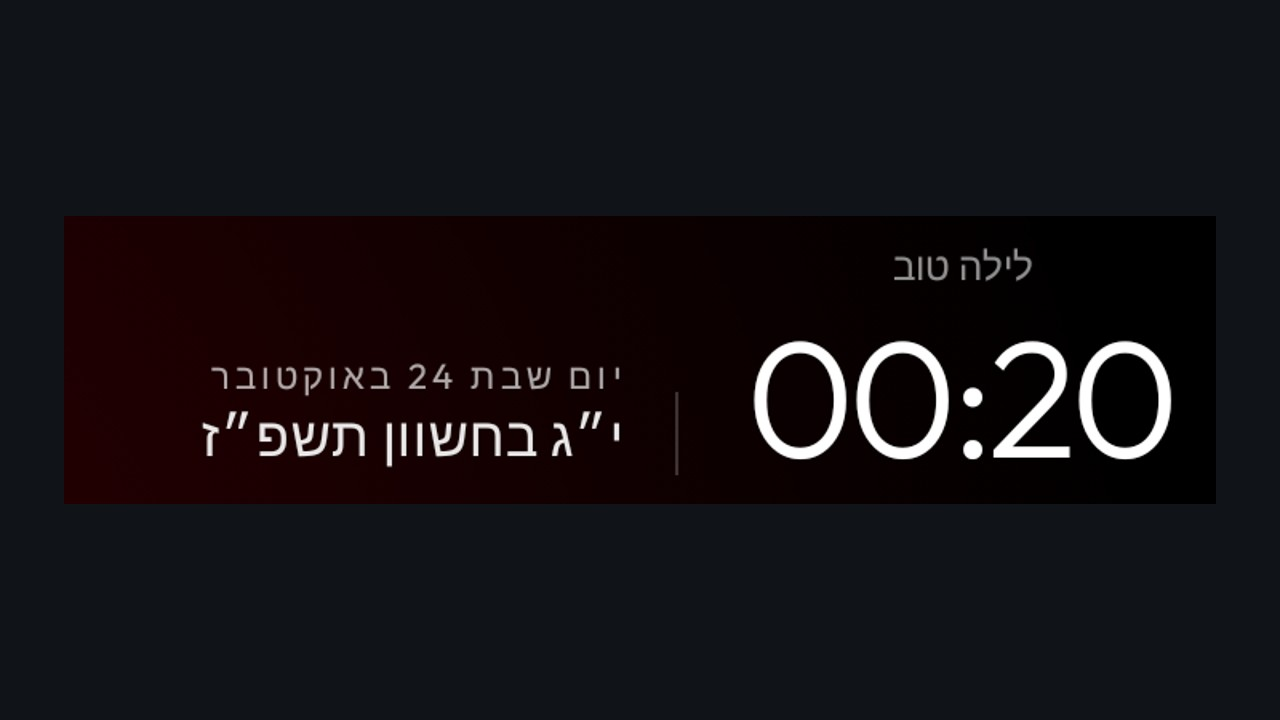
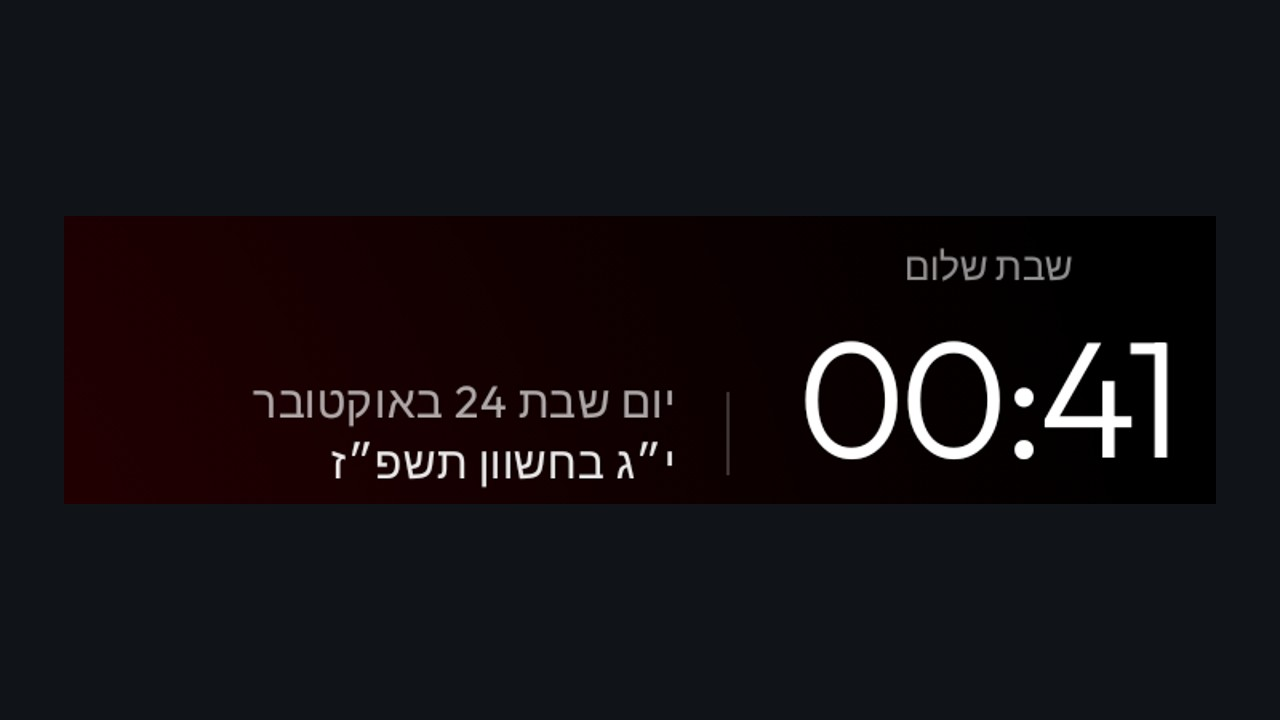
Launcher: match date styling and add Shabbat greeting precedence

Changed region(s): [[0.5625, 0.4583, 0.9375, 0.6417], [0.1562, 0.4889, 0.5312, 0.6722], [0.6875, 0.3361, 0.8438, 0.3972]]

diff --git a/launcher/app/src/test/java/com/gathin/tvhome/JewishDateTest.java b/launcher/app/src/test/java/com/gathin/tvhome/JewishDateTest.java
@@ -34,21 +34,21 @@ public class JewishDateTest {
         assertFalse(JewishDate.israel(new Locale("he", "IL"), "diaspora"));
     }
     @Test public void holidayRangesAndDiasporaExtraDays() {
-        assertEquals(R.string.jewish_rosh_hashanah, JewishDate.holiday(0, 1, 30, true));
+        assertEquals(JewishDate.NEW_YEAR, JewishDate.holiday(0, 1, 30, true));
         assertEquals(0, JewishDate.holiday(0, 3, 30, true));
-        assertEquals(R.string.jewish_yom_kippur, JewishDate.holiday(0, 10, 30, true));
-        assertEquals(R.string.jewish_happy_holiday, JewishDate.holiday(0, 21, 30, true));
-        assertEquals(R.string.jewish_happy_holiday, JewishDate.holiday(0, 22, 30, true));
-        assertEquals(R.string.jewish_happy_holiday, JewishDate.holiday(0, 22, 30, false));
-        assertEquals(R.string.jewish_happy_holiday, JewishDate.holiday(0, 23, 30, false));
+        assertEquals(JewishDate.KIPPUR, JewishDate.holiday(0, 10, 30, true));
+        assertEquals(JewishDate.HOLIDAY, JewishDate.holiday(0, 21, 30, true));
+        assertEquals(JewishDate.HOLIDAY, JewishDate.holiday(0, 22, 30, true));
+        assertEquals(JewishDate.HOLIDAY, JewishDate.holiday(0, 22, 30, false));
+        assertEquals(JewishDate.HOLIDAY, JewishDate.holiday(0, 23, 30, false));
         assertEquals(0, JewishDate.holiday(0, 23, 30, true));
-        assertEquals(R.string.jewish_happy_holiday, JewishDate.holiday(7, 22, 30, false));
+        assertEquals(JewishDate.HOLIDAY, JewishDate.holiday(7, 22, 30, false));
         assertEquals(0, JewishDate.holiday(7, 22, 30, true));
-        assertEquals(R.string.jewish_happy_holiday, JewishDate.holiday(9, 7, 30, false));
+        assertEquals(JewishDate.HOLIDAY, JewishDate.holiday(9, 7, 30, false));
         assertEquals(0, JewishDate.holiday(9, 7, 30, true));
         assertEquals(0, JewishDate.holiday(5, 14, 30, true)); // Adar I is not Purim.
-        assertEquals(R.string.jewish_purim, JewishDate.holiday(6, 14, 30, true));
-        assertEquals(R.string.jewish_purim, JewishDate.holiday(6, 15, 30, true));
+        assertEquals(JewishDate.PURIM, JewishDate.holiday(6, 14, 30, true));
+        assertEquals(JewishDate.PURIM, JewishDate.holiday(6, 15, 30, true));
     }
     @Test public void omitYearThousandsWithoutChangingDaysOrLeapMonths() {
         assertEquals("ה׳ בחשוון תשפ״ז", JewishDate.withoutMillennium("ה׳ בחשוון ה׳תשפ״ז"));
@@ -59,11 +59,25 @@ public class JewishDateTest {
         assertEquals("13 Heshvan 5787", JewishDate.withoutMillennium("13 Heshvan 5787"));
     }
 
+    @Test public void holidaysAndTheirEvesOverrideShabbat() {
+        LocalDate shabbat = LocalDate.of(2026, 10, 24);
+        assertEquals(JewishDate.SHABBAT, JewishDate.preferredGreeting(0, 0, shabbat));
+        assertEquals(JewishDate.NEW_YEAR,
+                JewishDate.preferredGreeting(JewishDate.NEW_YEAR, 0, shabbat));
+        assertEquals(JewishDate.HOLIDAY,
+                JewishDate.preferredGreeting(0, JewishDate.HOLIDAY, LocalDate.of(2025, 4, 12)));
+        assertEquals(JewishDate.HANUKKAH, JewishDate.preferredGreeting(
+                JewishDate.HANUKKAH, JewishDate.NEW_YEAR, shabbat));
+        assertEquals(0, JewishDate.preferredGreeting(0, 0, shabbat.plusDays(1)));
+        assertEquals(JewishDate.SHABBAT,
+                JewishDate.preferredGreeting(0, 0, LocalDate.of(1969, 12, 27)));
+    }
+
     @Test public void hanukkahHasEightDaysWithShortOrLongKislev() {
         for (int length : new int[]{29, 30}) {
             int count = 0;
             for (int month : new int[]{2, 3}) for (int d = 1; d <= (month == 2 ? length : 29); d++)
-                if (JewishDate.holiday(month, d, length, true) == R.string.jewish_hanukkah) count++;
+                if (JewishDate.holiday(month, d, length, true) == JewishDate.HANUKKAH) count++;
             assertEquals(8, count);
         }
     }

diff --git a/launcher/app/src/main/java/com/gathin/tvhome/JewishDate.java b/launcher/app/src/main/java/com/gathin/tvhome/JewishDate.java
@@ -11,6 +11,8 @@ import java.util.Locale;
 
 /** Optional civil display, computed offline; sunset is approximate, not a source of religious times. */
 final class JewishDate {
+    // One-based indices into jewish_greetings; zero keeps the ordinary greeting.
+    static final int NEW_YEAR = 1, KIPPUR = 2, HANUKKAH = 3, PURIM = 4, HOLIDAY = 5, SHABBAT = 6;
     final boolean showDate, greetings;
     private final double latitude, longitude;
     private final String region;
@@ -94,6 +96,20 @@ final class JewishDate {
     }
 
     int greeting(LocalDate day, Locale locale) {
+        int today = holidayOn(day, locale);
+        if (today != 0) return today;
+        return preferredGreeting(0, holidayOn(day.plusDays(1), locale), day);
+    }
+
+    static int preferredGreeting(int holiday, int eve, LocalDate day) {
+        if (holiday != 0) return holiday;
+        if (eve != 0) return eve;
+        // Epoch day 2 was Saturday; Java's signed remainder is -5 for pre-1970 Saturdays.
+        long weekday = day.toEpochDay() % 7;
+        return weekday == 2 || weekday == -5 ? SHABBAT : 0;
+    }
+
+    private int holidayOn(LocalDate day, Locale locale) {
         HebrewCalendar c = calendar(day);
         int month = c.get(HebrewCalendar.MONTH), date = c.get(HebrewCalendar.DAY_OF_MONTH);
         // Kislev may have 29 or 30 days; Hanukkah always lasts eight days.
@@ -105,17 +121,17 @@ final class JewishDate {
     /** ICU month numbers: Tishri=0, Kislev=2, Tevet=3, Adar/Adar II=6, Nisan=7, Sivan=9. */
     static int holiday(int month, int day, int kislevDays, boolean israel) {
         if (month == 0) {
-            if (day == 1 || day == 2) return R.string.jewish_rosh_hashanah;
-            if (day == 10) return R.string.jewish_yom_kippur;
-            if (day >= 15 && day <= 21) return R.string.jewish_happy_holiday;
-            if (day == 22) return R.string.jewish_happy_holiday;
-            if (day == 23 && !israel) return R.string.jewish_happy_holiday;
+            if (day == 1 || day == 2) return NEW_YEAR;
+            if (day == 10) return KIPPUR;
+            if (day >= 15 && day <= 21) return HOLIDAY;
+            if (day == 22) return HOLIDAY;
+            if (day == 23 && !israel) return HOLIDAY;
         }
         if ((month == 2 && day >= 25 && day <= kislevDays)
-                || (month == 3 && day >= 1 && day <= 32 - kislevDays)) return R.string.jewish_hanukkah;
-        if (month == 6 && (day == 14 || day == 15)) return R.string.jewish_purim;
-        if (month == 7 && day >= 15 && day <= (israel ? 21 : 22)) return R.string.jewish_happy_holiday;
-        if (month == 9 && (day == 6 || (day == 7 && !israel))) return R.string.jewish_happy_holiday;
+                || (month == 3 && day >= 1 && day <= 32 - kislevDays)) return HANUKKAH;
+        if (month == 6 && (day == 14 || day == 15)) return PURIM;
+        if (month == 7 && day >= 15 && day <= (israel ? 21 : 22)) return HOLIDAY;
+        if (month == 9 && (day == 6 || (day == 7 && !israel))) return HOLIDAY;
         return 0;
     }
 }

diff --git a/launcher/app/src/main/java/com/gathin/tvhome/MainActivity.java b/launcher/app/src/main/java/com/gathin/tvhome/MainActivity.java
@@ -447,23 +447,27 @@ public class MainActivity extends Activity implements AppAdapter.TileListener {
         shamsi = cfg.shamsiDate;
         jewishDate = cfg.jewishDate;
         greetingName = cfg.greetingName;
-        if (shamsi || (jewishDate != null && jewishDate.showDate)) {
-            if (shamsi && jewishDate != null && jewishDate.showDate) {
+        boolean hebrewDate = jewishDate != null && jewishDate.showDate;
+        if (shamsi || hebrewDate) {
+            if (shamsi && hebrewDate) {
                 shamsiDate.setSingleLine(false);
                 shamsiDate.setMaxLines(2);
             }
-            if (jewishDate != null && jewishDate.showDate) {
+            if (hebrewDate) {
                 shamsiDate.getLayoutParams().width = ViewGroup.LayoutParams.WRAP_CONTENT;
                 ViewGroup dates = (ViewGroup) shamsiDate.getParent();
                 dates.removeView(shamsiDate);
                 dates.addView(shamsiDate);
+                dates.setTranslationY(6 * density);
             }
             shamsiDate.setVisibility(View.VISIBLE);
             TextView date = findViewById(R.id.date);
-            if (jewishDate != null && jewishDate.showDate) {
-                date.getLayoutParams().width = ViewGroup.LayoutParams.MATCH_PARENT;
+            if (hebrewDate) {
+                date.getLayoutParams().width = ViewGroup.LayoutParams.WRAP_CONTENT;
+                shamsiDate.setTextSize(14f);
+                date.setLetterSpacing(0.02f);
             }
-            date.setTextSize(11f);
+            date.setTextSize(hebrewDate ? 14f : 11f);
             date.setPadding(0, (int) (4 * density), 0, 0);
         }
         vpnApp = cfg.vpnApp;
@@ -2294,7 +2298,7 @@ public class MainActivity extends Activity implements AppAdapter.TileListener {
                 : jewishDate.day(java.time.ZonedDateTime.now());
         int holiday = jewishDay != null && jewishDate.greetings ? jewishDate.greeting(jewishDay, locale) : 0;
         String festiveGreeting = festive ? festival.greetingText(getResources()) : "";
-        if (festiveGreeting.isEmpty() && holiday != 0) festiveGreeting = getString(holiday);
+        if (festiveGreeting.isEmpty() && holiday != 0) festiveGreeting = getResources().getStringArray(R.array.jewish_greetings)[holiday - 1];
         if (!festiveGreeting.isEmpty()) {
             greeting.setText(festiveGreeting);
             greeting.setTextColor(festive ? liftTowardsWhite(festival.accentColor(), 0.25f) : greetingColor);

diff --git a/tests/test_hebrew_resources.py b/tests/test_hebrew_resources.py
@@ -35,6 +35,17 @@ class HebrewResourcesTest(unittest.TestCase):
         for key in ("hebrew_date", "jewish_holiday_greetings"):
             self.assertEqual("false", config.find("bool[@name='" + key + "']").text)
 
+    def test_jewish_greeting_translations_keep_the_same_order(self):
+        lists = []
+        for folder in ("values", "values-iw"):
+            array = ET.parse(RES / folder / "jewish_greetings.xml").getroot().find("string-array")
+            self.assertEqual("jewish_greetings", array.get("name"))
+            lists.append([item.text for item in array])
+        self.assertEqual(6, len(lists[0]))
+        self.assertEqual(6, len(lists[1]))
+        self.assertEqual("Shabbat shalom", lists[0][-1])
+        self.assertEqual("שבת שלום", lists[1][-1])
+
     def test_hebrew_home_keeps_all_default_view_ids_and_types(self):
         default, hebrew = views("layout"), views("layout-iw")
         for view_id, tag in default.items():

diff --git a/themes/README.md b/themes/README.md
@@ -71,7 +71,7 @@ A new key needs one there in the same pull request.
 | `library_apps` | list of package names | Packages pre-seeded into the App library's "added" set at startup (config.xml `library_apps`, or a theme's `config.json`). They show on Home as if the owner had added them in the App library UI, and stay removable there (a removed one stays hidden); empty (off) by default |
 | `shamsi_date` | bool | Show the Solar Hijri date above the Gregorian one |
 | `hebrew_date` | bool | Off by default; show the Hebrew calendar date below the Gregorian one. Requires the manual location described below for offline sunset rollover |
-| `jewish_holiday_greetings` | bool | Off by default; replace the normal greeting during major Jewish holidays, Hanukkah and Purim (including Shushan Purim). An explicit festival-theme greeting has priority |
+| `jewish_holiday_greetings` | bool | Off by default; replace the normal greeting during major Jewish holidays, their eves, Hanukkah, Purim (including Shushan Purim) and Shabbat. An explicit festival-theme greeting has priority |
 | `jewish_holiday_region` | string | `auto` (default): country `IL` uses Israel, other countries use Diaspora; Hebrew without a country uses Israel. Override with `israel` or `diaspora` |
 | `greeting_name` | string | A name after the greeting, e.g. `"Mr. Trịnh"` for GOOD MORNING, MR. TRỊNH; empty for the greeting alone |
 | `module_cards` | bool | Look for module cards and ask about them (`true`); `false` turns the feature off |
@@ -226,3 +226,9 @@ on the development computer only; the launcher never calls them.
 The Gregorian date stays on top of the optional Hebrew date. Hebrew years omit the thousands prefix
 (for example תשפ״ז); day-number and Adar I/II marks remain intact. Shemini Atzeret and Simchat Torah use
 the same general holiday greeting in Israel and the Diaspora, while their observed dates still differ.
+
+With greetings enabled, priority is: an explicit festival-theme greeting, today’s Jewish holiday,
+a holiday beginning the following Hebrew day (holiday eve), Shabbat, then the normal time-of-day greeting.
+Shabbat follows the same sunset-based date: Friday sunset through Saturday sunset (approximate display,
+not Havdalah timing). Holiday-eve greetings use the upcoming holiday’s wording. The optional date pair
+uses the same 14sp regular font and letter spacing on both lines, with a 6dp downward offset.
